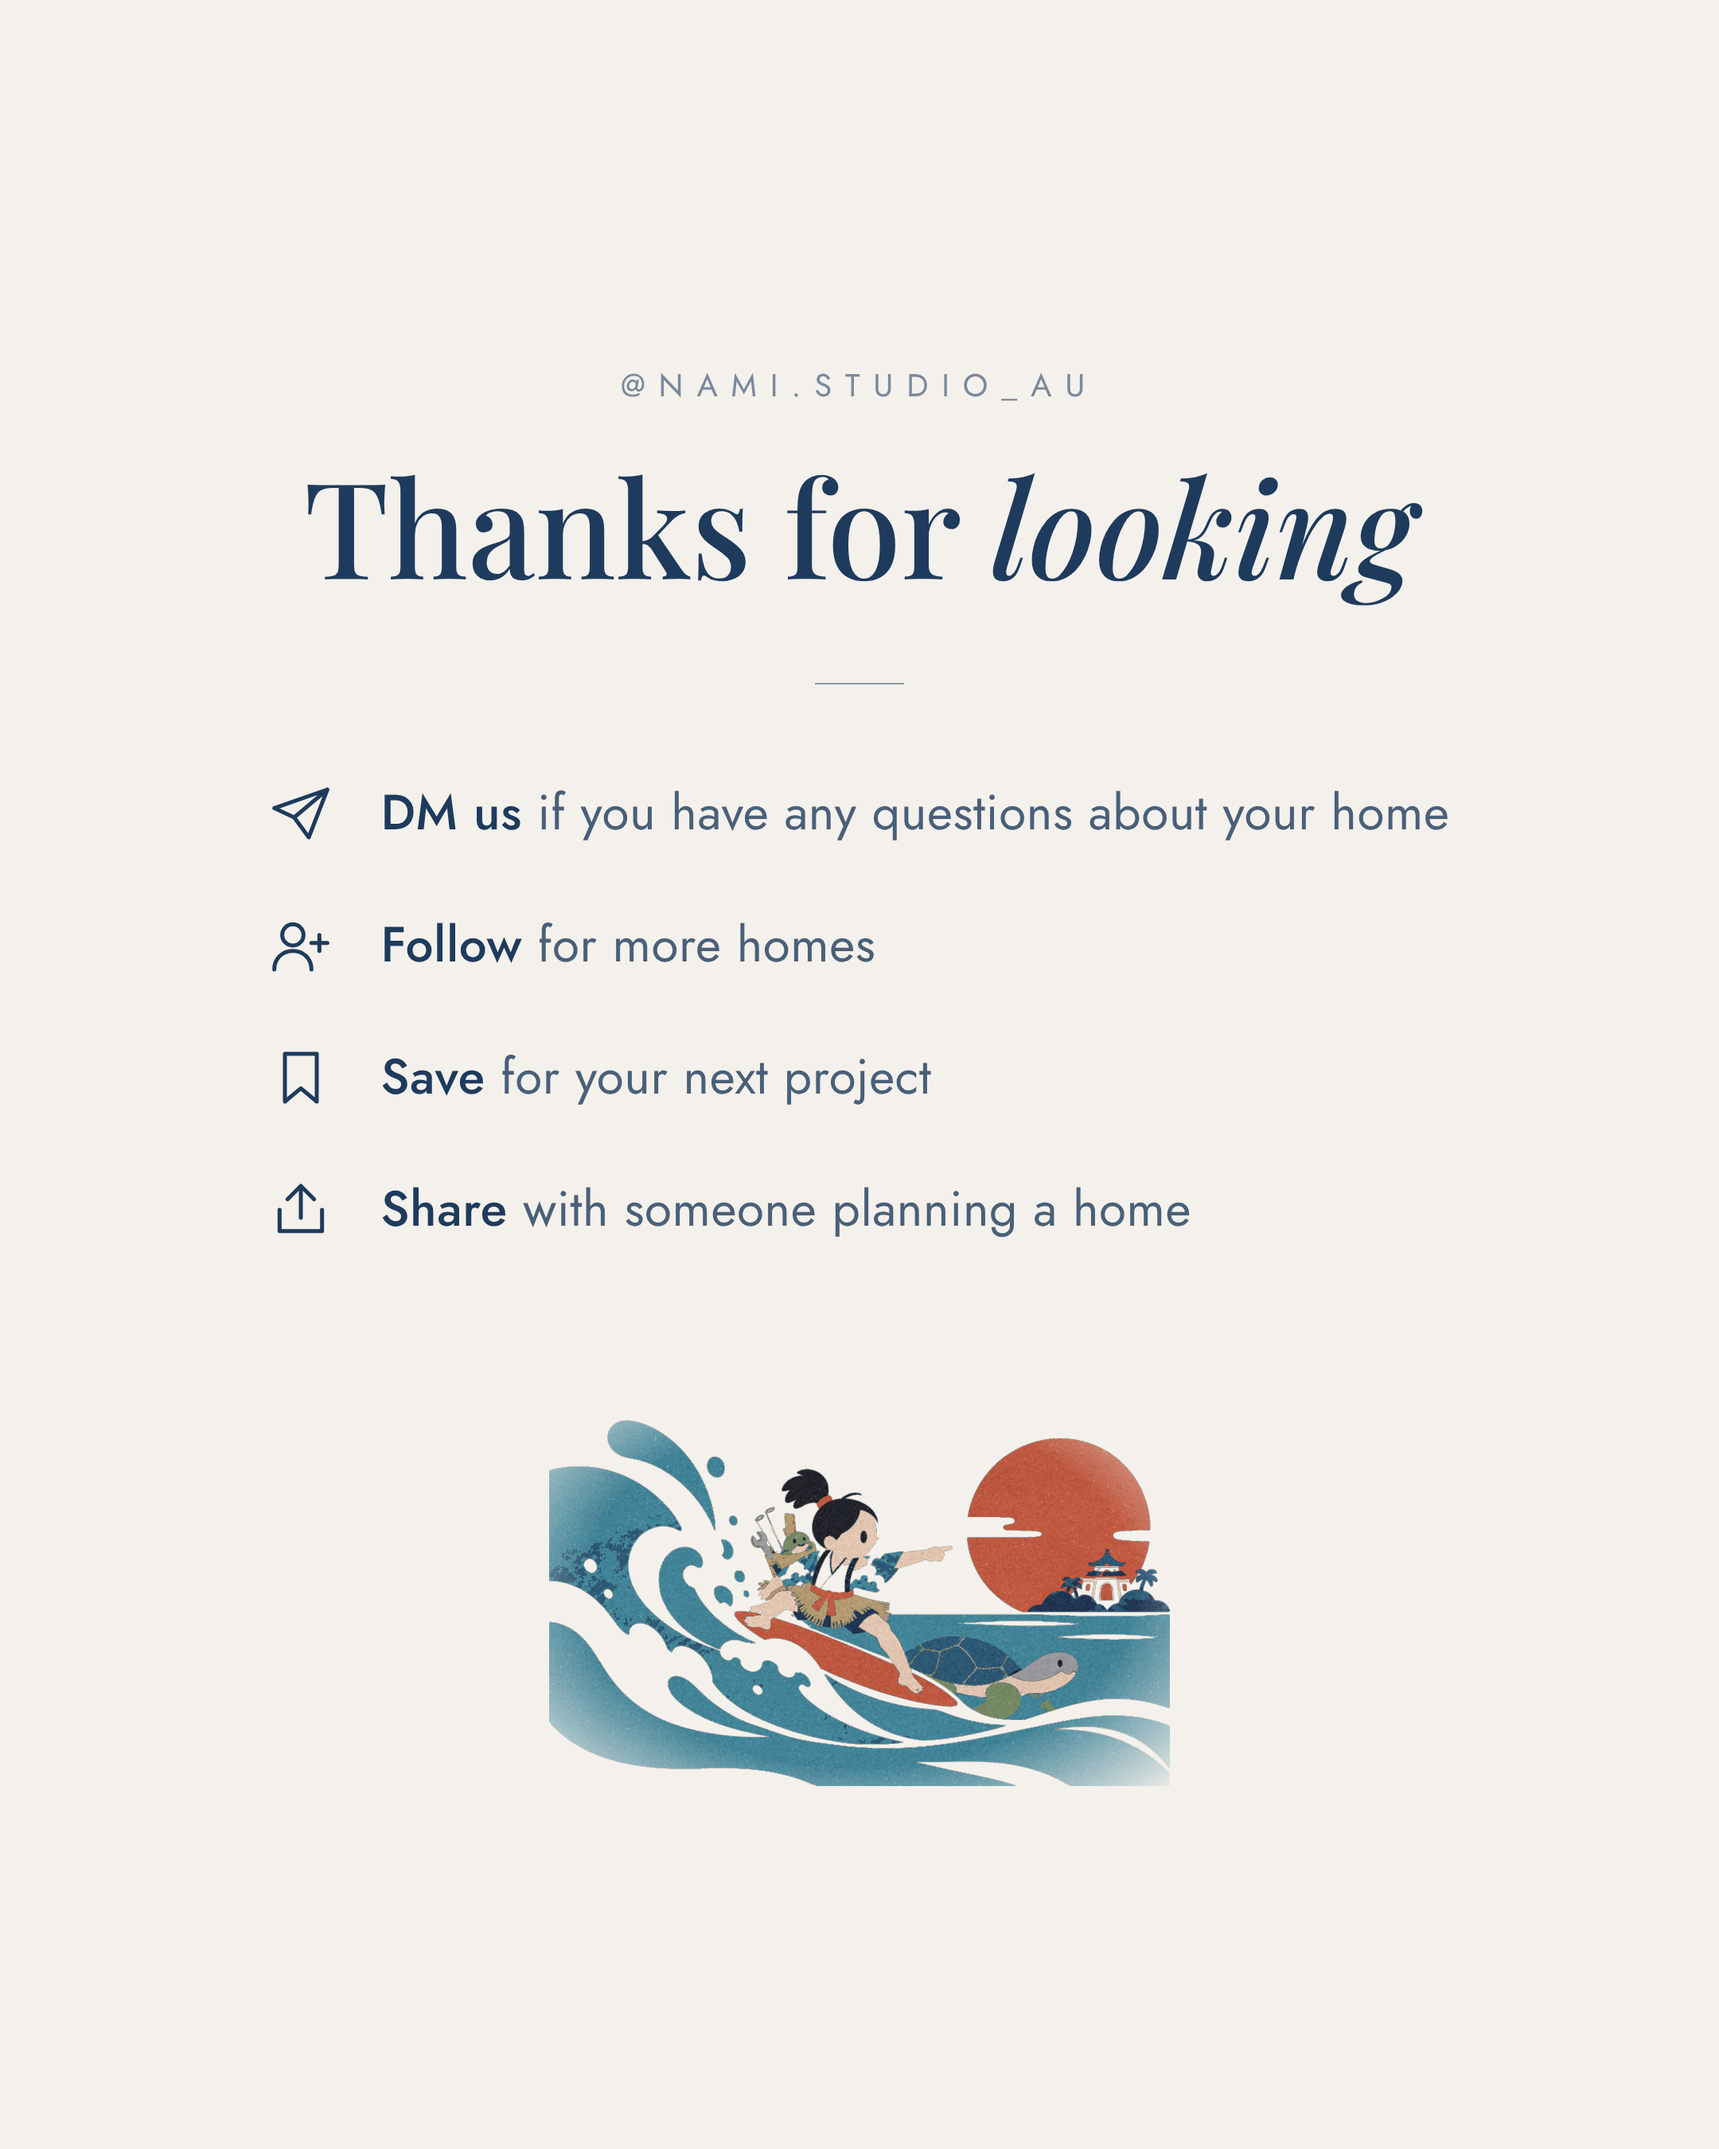
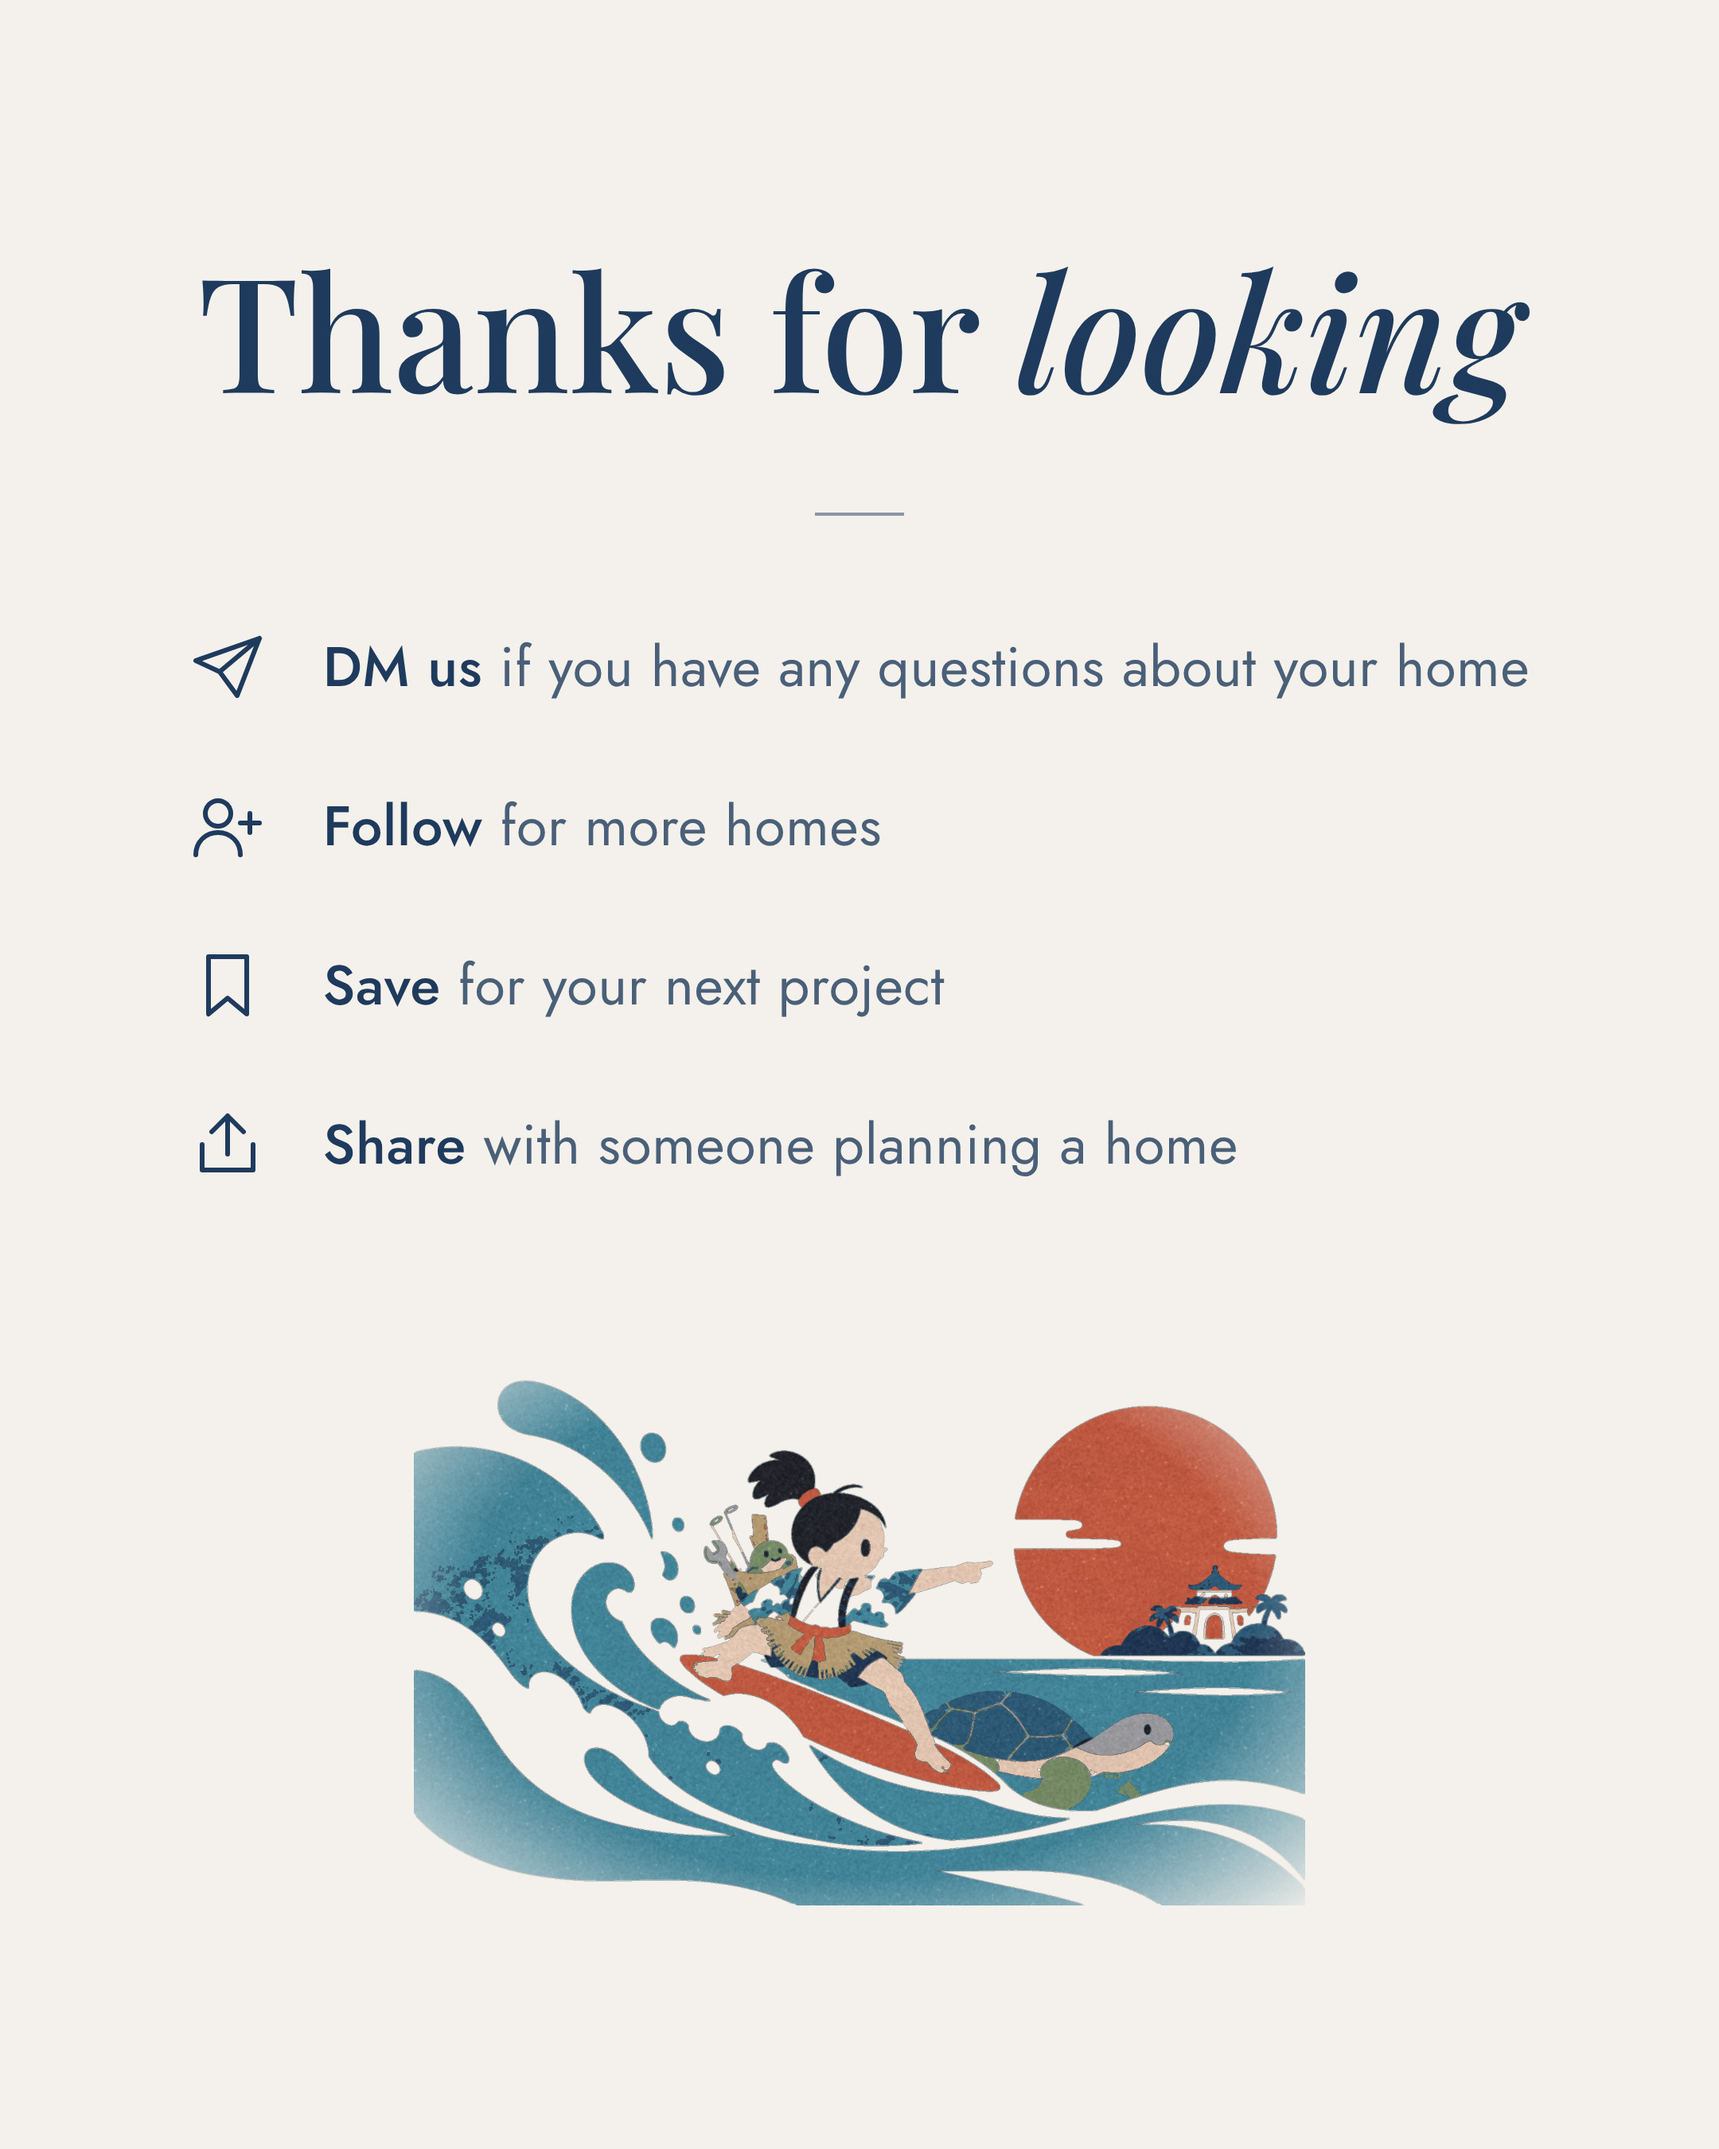
Instagram closing slide: larger type and art, drop the handle label
Claude-Session: https://claude.ai/code/session_018kEBoUjPf4arsee4JEG76P

diff --git a/nami-website/design/instagram/last/make-last.py b/nami-website/design/instagram/last/make-last.py
@@ -12,17 +12,16 @@ open("final_last.html","w").write(f'''<!doctype html><html><head><meta charset=u
 *{{margin:0;padding:0;box-sizing:border-box}}body{{width:1080px;height:1350px;color:#1e3a5c;font-family:Jost,sans-serif}}
 .s{{width:1080px;height:1350px;position:relative;overflow:hidden;background:#f4f1ec;display:flex;flex-direction:column;align-items:center;justify-content:center}}
 .k{{font-size:20px;letter-spacing:.42em;color:#7a8a9c}}
-h1{{font-family:'Playfair Display';font-weight:500;font-size:84px;line-height:1.1;text-align:center;margin-top:26px}}
+h1{{font-family:'Playfair Display';font-weight:500;font-size:100px;line-height:1.05;text-align:center}}
 h1 i{{font-style:italic}}
-.rule{{width:56px;height:1.5px;background:#1e3a5c;opacity:.5;margin:54px 0 58px}}
-ul{{list-style:none;display:flex;flex-direction:column;gap:38px}}
-li{{display:flex;align-items:center;gap:30px}}
-svg{{width:40px;height:40px;flex:none;fill:none;stroke:#1e3a5c;stroke-width:1.5;stroke-linejoin:round;stroke-linecap:round}}
-p{{font-size:31px;color:#4a5f78;letter-spacing:.01em}} b{{font-weight:500;color:#1e3a5c}}
+.rule{{width:56px;height:1.5px;background:#1e3a5c;opacity:.5;margin:64px 0 70px}}
+ul{{list-style:none;display:flex;flex-direction:column;gap:50px}}
+li{{display:flex;align-items:center;gap:36px}}
+svg{{width:48px;height:48px;flex:none;fill:none;stroke:#1e3a5c;stroke-width:1.5;stroke-linejoin:round;stroke-linecap:round}}
+p{{font-size:35px;color:#4a5f78;letter-spacing:.01em}} b{{font-weight:500;color:#1e3a5c}}
 
-.ill{{margin-top:80px;width:390px;height:260px;background:url(file://{I}) center/cover;filter:saturate(.85);-webkit-mask-image:radial-gradient(ellipse 72% 70% at 50% 52%,#000 62%,transparent 100%);mask-image:radial-gradient(ellipse 72% 70% at 50% 52%,#000 62%,transparent 100%)}}
+.ill{{margin-top:80px;width:560px;height:373px;background:url(file://{I}) center/cover;filter:saturate(.85);-webkit-mask-image:radial-gradient(ellipse 72% 70% at 50% 52%,#000 62%,transparent 100%);mask-image:radial-gradient(ellipse 72% 70% at 50% 52%,#000 62%,transparent 100%)}}
 </style></head><body><div class="s">
-<div class="k">@NAMI.STUDIO_AU</div>
 <h1>Thanks for <i>looking</i></h1>
 <div class="rule"></div>
 <ul>{li}</ul>
